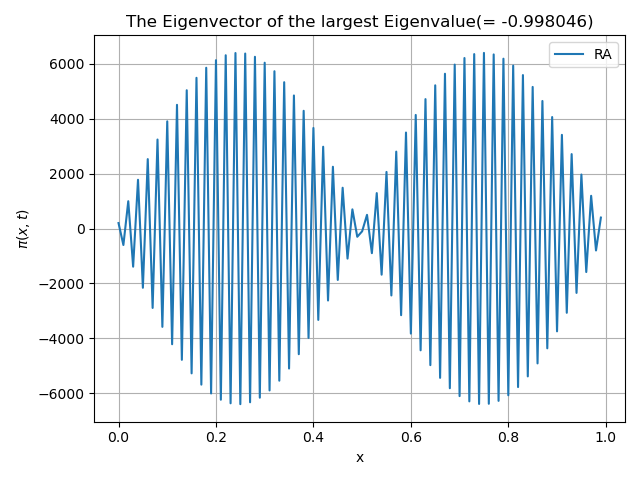
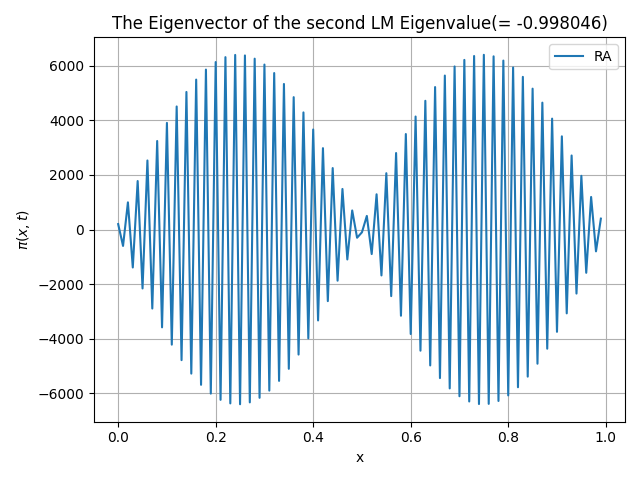
add the plot of eigenvectors respectively corresponding to the first and second largest magnitude (LM) eigenvalues for Metro transfer matrix

diff --git a/code/transferMat_result_generator.py b/code/transferMat_result_generator.py
@@ -40,30 +40,30 @@ def beta_U(x):
     return result
 
 # ## =========first run with Metro=============
-# rr_trans = TransferMatrix_ReRe(hx, x_arr, beta_U, 0)
-# aa_trans = TransferMatrix_AbAb(hx, x_arr, beta_U, 0)
-# ra_trans = TransferMatrix_ReAb(hx, x_arr, beta_U, 0)
-# ar_trans = TransferMatrix_AbRe(hx, x_arr, beta_U, 0)
+rr_trans = TransferMatrix_ReRe(hx, x_arr, beta_U, 0)
+aa_trans = TransferMatrix_AbAb(hx, x_arr, beta_U, 0)
+ra_trans = TransferMatrix_ReAb(hx, x_arr, beta_U, 0)
+ar_trans = TransferMatrix_AbRe(hx, x_arr, beta_U, 0)
 
-# # Define the folder path
-# # folder_path = 'graphs/convex_potential/transferMat_Metro'
-# # folder_path = 'graphs/concave_potential/transferMat_Metro'
-# # folder_path = 'graphs/Gaussian_potential/transferMat_Metro'
-# # folder_path = 'graphs/diffusion_only/transferMat_Metro'
+# Define the folder path
+# folder_path = 'graphs/convex_potential/transferMat_Metro'
+# folder_path = 'graphs/concave_potential/transferMat_Metro'
+folder_path = 'graphs/Gaussian_potential/transferMat_Metro'
+# folder_path = 'graphs/diffusion_only/transferMat_Metro'
 
 
 
 # # ===========second run param: with different criteria============
-rr_trans = TransferMatrix_ReRe(hx, x_arr, beta_U, 1)
-aa_trans = TransferMatrix_AbAb(hx, x_arr, beta_U, 1)
-ra_trans = TransferMatrix_ReAb(hx, x_arr, beta_U, 1)
-ar_trans = TransferMatrix_AbRe(hx, x_arr, beta_U, 1)
+# rr_trans = TransferMatrix_ReRe(hx, x_arr, beta_U, 1)
+# aa_trans = TransferMatrix_AbAb(hx, x_arr, beta_U, 1)
+# ra_trans = TransferMatrix_ReAb(hx, x_arr, beta_U, 1)
+# ar_trans = TransferMatrix_AbRe(hx, x_arr, beta_U, 1)
 
-# Define the folder path
-# folder_path = 'graphs/convex_potential/transferMat_Criteria'
-# folder_path = 'graphs/concave_potential/transferMat_Criteria'
-folder_path = 'graphs/Gaussian_potential/transferMat_Criteria'
-# folder_path = 'graphs/diffusion_only/transferMat_Criteria'
+# # Define the folder path
+# # folder_path = 'graphs/convex_potential/transferMat_Criteria'
+# # folder_path = 'graphs/concave_potential/transferMat_Criteria'
+# # folder_path = 'graphs/Gaussian_potential/transferMat_Criteria'
+# # folder_path = 'graphs/diffusion_only/transferMat_Criteria'
 
 
 plt.plot(x_arr, rr_trans.steady_state, label="RR")
